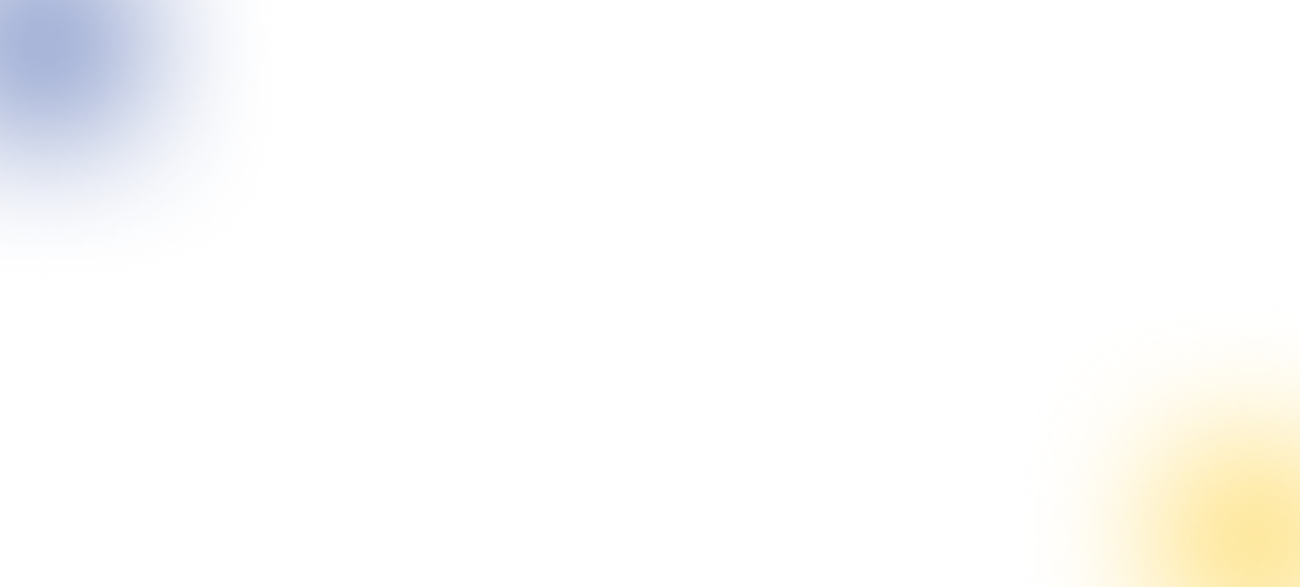
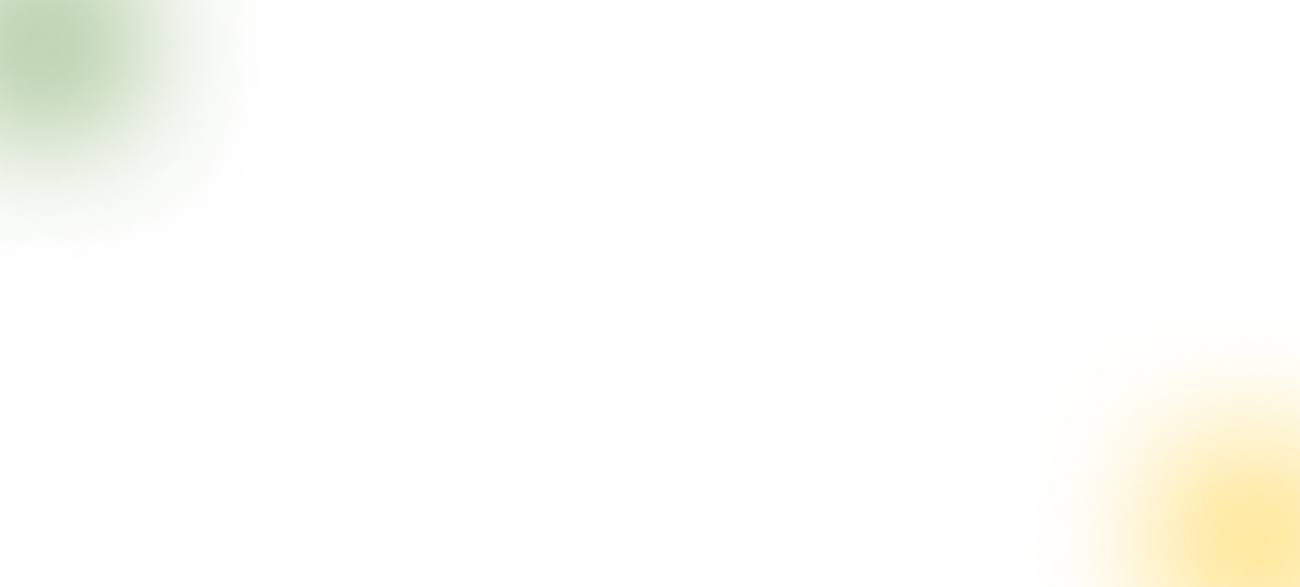
Update

Changed region(s): [[0.0, 0.0, 0.1231, 0.2147]]

diff --git a/index.html b/index.html
@@ -37,43 +37,40 @@
 </head>
 <body>
 
-<!-- Header Start -->
-<header class="main-header">
-  <div class="header-sticky">
-    <nav class="navbar navbar-expand-lg">
-      <div class="container">
-        <!-- Logo -->
-        <a class="navbar-brand" href="index.html">
-          <img src="images/logo.png" alt="Logo">
-        </a>
+ <!-- Header Start -->
+	<header class="main-header">
+		<div class="header-sticky">
+			<nav class="navbar navbar-expand-lg">
+				<div class="container">
+					<!-- Logo Start -->
+					<a class="navbar-brand" href="index.html">
+						<img src="images/logo.png" alt="Logo">
+					</a>
+					<!-- Logo End -->
 
-        <!-- Toggler -->
-        <button class="navbar-toggler" type="button" data-bs-toggle="collapse" data-bs-target="#navbarNav"
-          aria-controls="navbarNav" aria-expanded="false" aria-label="Toggle navigation">
-          <span class="navbar-toggler-icon"></span>
-        </button>
-
-        <!-- Nav and Button -->
-        <!-- <div class="collapse navbar-collapse" id="navbarNav">
-          <ul class="navbar-nav me-auto mb-2 mb-lg-0" id="menu">
-            <li class="nav-item"><a class="nav-link" href="index.html">Home</a></li>
-            <li class="nav-item"><a class="nav-link" href="about.html">About Us</a></li>
-            <li class="nav-item"><a class="nav-link" href="services.html">Services</a></li>
-            <li class="nav-item"><a class="nav-link" href="blog.html">Blog</a></li>
-            <li class="nav-item"><a class="nav-link" href="contact.html">Contact</a></li>
-          </ul> -->
-
-          <!-- Button aligned to right -->
-          <div class="header-btn ms-lg-auto mt-3 mt-lg-0">
-            <a href="contact.html" class="btn-default">Get Started</a>
-          </div>
-        </div>
-      </div>
-    </nav>
-  </div>
-</header>
-<!-- Header End -->
-
+					<!-- Main Menu Start -->
+					<div class="collapse navbar-collapse main-menu">
+                        <div class="nav-menu-wrapper">
+                            <ul class="navbar-nav mr-auto" id="menu">
+                                <li class="nav-item"><a class="nav-link" href="https://toolfe.com" target="_blank">Toolfe</a>                             
+                                <li class="nav-item"><a class="nav-link" href="https://hourspark.com" target="_blank">Hourspark</a>               
+                            </ul>
+                        </div>
+                        
+                        <!-- Header Btn Start -->
+                        <div class="header-btn">
+                            <a href="contact.html" class="btn-default">Get Started</a>
+                        </div>
+                        <!-- Header Btn End -->
+					</div>
+					<!-- Main Menu End -->
+					<div class="navbar-toggle"></div>
+				</div>
+			</nav>
+			<div class="responsive-menu"></div>
+		</div>
+	</header>
+	<!-- Header End -->
 
     <!-- Hero Section Start -->
     <div class="hero">
@@ -94,73 +91,6 @@
                             <a href="contact.html" class="btn-default btn-highlighted">Discover Our Impact</a>
                         </div>
                         <!-- Hero Button End -->
-
-                        <!-- Hero Company Slider Start -->
-                        <div class="hero-company-slider">
-                            <p>Already chosen by the leaders</p>
-
-                            <div class="swiper">
-                                <div class="swiper-wrapper">
-                                    <!-- Company Logo Start -->
-                                    <div class="swiper-slide">
-                                        <div class="company-logo">
-                                            <img src="images/company-logo-1.png" alt="">
-                                        </div>
-                                    </div>
-                                    <!-- Company Logo End -->
-
-                                    <!-- Company Logo Start -->
-                                    <div class="swiper-slide">
-                                        <div class="company-logo">
-                                            <img src="images/company-logo-2.png" alt="">
-                                        </div>
-                                    </div>
-                                    <!-- Company Logo End -->
-
-                                    <!-- Company Logo Start -->
-                                    <div class="swiper-slide">
-                                        <div class="company-logo">
-                                            <img src="images/company-logo-3.png" alt="">
-                                        </div>
-                                    </div>
-                                    <!-- Company Logo End -->
-                                    
-                                    <!-- Company Logo Start -->
-                                    <div class="swiper-slide">
-                                        <div class="company-logo">
-                                            <img src="images/company-logo-4.png" alt="">
-                                        </div>
-                                    </div>
-                                    <!-- Company Logo End -->
-                                    
-                                    <!-- Company Logo Start -->
-                                    <div class="swiper-slide">
-                                        <div class="company-logo">
-                                            <img src="images/company-logo-5.png" alt="">
-                                        </div>
-                                    </div>
-                                    <!-- Company Logo End -->
-                                    
-                                    <!-- Company Logo Start -->
-                                    <div class="swiper-slide">
-                                        <div class="company-logo">
-                                            <img src="images/company-logo-6.png" alt="">
-                                        </div>
-                                    </div>
-                                    <!-- Company Logo End -->
-
-                                    <!-- Company Logo Start -->
-                                    <div class="swiper-slide">
-                                        <div class="company-logo">
-                                            <img src="images/company-logo-7.png" alt="">
-                                        </div>
-                                    </div>
-                                    <!-- Company Logo End -->
-                                </div>
-                            </div>
-                        </div>
-                        <!-- Hero Company Slider End -->
-                    </div>
                     <!-- Hero Content End -->
                 </div>
             </div>
@@ -350,22 +280,6 @@
                     </div>
                 </div>
                 <!-- Service Item End -->
-            </div>
-
-            <div class="col-lg-12">
-                <!-- Service List Start -->
-                <!-- <div class="service-list wow fadeInUp" data-wow-delay="0.6s">
-                    <ul>
-                        <li>AI UI/UX Design</li>
-                        <li>Chatbot Design</li>
-                        <li>Design Automation</li>
-                        <li>Predictive UX</li>
-                        <li>Personalized Experiences</li>
-                        <li>Generative Branding</li>
-                        <li>Predictive UX</li>
-                    </ul>
-                </div> -->
-                <!-- Service List End -->
             </div>
         </div>
     </div>
@@ -636,7 +550,7 @@
                         <div class="accordion-item wow fadeInUp" data-wow-delay="0.4s">
                             <h2 class="accordion-header" id="heading3">
                                 <button class="accordion-button collapsed" type="button" data-bs-toggle="collapse" data-bs-target="#collapse3" aria-expanded="false" aria-controls="collapse3">
-                                    3.How quickly will I see results from Zotork’s solutions? \
+                                    3.How quickly will I see results from Zotork’s solutions?
                                 </button>
                             </h2>
                             <div id="collapse3" class="accordion-collapse collapse" aria-labelledby="heading3" data-bs-parent="#accordion">
@@ -760,7 +674,7 @@
                 <div class="col-lg-12">
                     <!-- Footer Copyright Text Start -->
                     <div class="footer-copyright-text">
-                        <p>Copyright © 2025 All Rights Reserved by Zotork</p>
+                        <p>Copyright © 2025 All Rights Reserved by Zotork Private Limited</p>
                     </div>
                     <!-- Footer Copyright Text End -->     
                 </div>

diff --git a/contact.html b/contact.html
@@ -37,43 +37,40 @@
 </head>
 <body>
 
-    <!-- Header Start -->
-<header class="main-header">
-  <div class="header-sticky">
-    <nav class="navbar navbar-expand-lg">
-      <div class="container">
-        <!-- Logo -->
-        <a class="navbar-brand" href="index.html">
-          <img src="images/logo.png" alt="Logo">
-        </a>
+ <!-- Header Start -->
+	<header class="main-header">
+		<div class="header-sticky">
+			<nav class="navbar navbar-expand-lg">
+				<div class="container">
+					<!-- Logo Start -->
+					<a class="navbar-brand" href="index.html">
+						<img src="images/logo.png" alt="Logo">
+					</a>
+					<!-- Logo End -->
 
-        <!-- Toggler -->
-        <button class="navbar-toggler" type="button" data-bs-toggle="collapse" data-bs-target="#navbarNav"
-          aria-controls="navbarNav" aria-expanded="false" aria-label="Toggle navigation">
-          <span class="navbar-toggler-icon"></span>
-        </button>
-
-        <!-- Nav and Button -->
-        <!-- <div class="collapse navbar-collapse" id="navbarNav">
-          <ul class="navbar-nav me-auto mb-2 mb-lg-0" id="menu">
-            <li class="nav-item"><a class="nav-link" href="index.html">Home</a></li>
-            <li class="nav-item"><a class="nav-link" href="about.html">About Us</a></li>
-            <li class="nav-item"><a class="nav-link" href="services.html">Services</a></li>
-            <li class="nav-item"><a class="nav-link" href="blog.html">Blog</a></li>
-            <li class="nav-item"><a class="nav-link" href="contact.html">Contact</a></li>
-          </ul> -->
-
-          <!-- Button aligned to right -->
-          <div class="header-btn ms-lg-auto mt-3 mt-lg-0">
-            <a href="contact.html" class="btn-default">Get Started</a>
-          </div>
-        </div>
-      </div>
-    </nav>
-  </div>
-</header>
-<!-- Header End -->
-
+					<!-- Main Menu Start -->
+					<div class="collapse navbar-collapse main-menu">
+                        <div class="nav-menu-wrapper">
+                            <ul class="navbar-nav mr-auto" id="menu">
+                                <li class="nav-item"><a class="nav-link" href="https://toolfe.com" target="_blank">Toolfe</a>                             
+                                <li class="nav-item"><a class="nav-link" href="https://hourspark.com" target="_blank">Hourspark</a>               
+                            </ul>
+                        </div>
+                        
+                        <!-- Header Btn Start -->
+                        <div class="header-btn">
+                            <a href="contact.html" class="btn-default">Get Started</a>
+                        </div>
+                        <!-- Header Btn End -->
+					</div>
+					<!-- Main Menu End -->
+					<div class="navbar-toggle"></div>
+				</div>
+			</nav>
+			<div class="responsive-menu"></div>
+		</div>
+	</header>
+	<!-- Header End -->
 
     <!-- Page Header Start -->
 	<div class="page-header">
@@ -245,7 +242,7 @@
                 <div class="col-lg-12">
                     <!-- Footer Copyright Text Start -->
                     <div class="footer-copyright-text">
-                        <p>Copyright © 2025 All Rights Reserved by Zotork</p>
+                        <p>Copyright © 2025 All Rights Reserved by Zotork Private Limited</p>
                     </div>
                     <!-- Footer Copyright Text End -->     
                 </div>

diff --git a/css/custom.css b/css/custom.css
@@ -45,7 +45,7 @@
 	--text-color				: #A7AABB;
 	--bg-color					: #060606;
 	--accent-color				: #ffce2d;
-	--accent-secondary-color	: #15399A;
+	--accent-secondary-color	: #538E32;
 	--divider-color				: #FFFFFF0F;
 	--dark-divider-color		: #FFFFFF33;
 	--error-color				: rgb(230, 87, 87);
